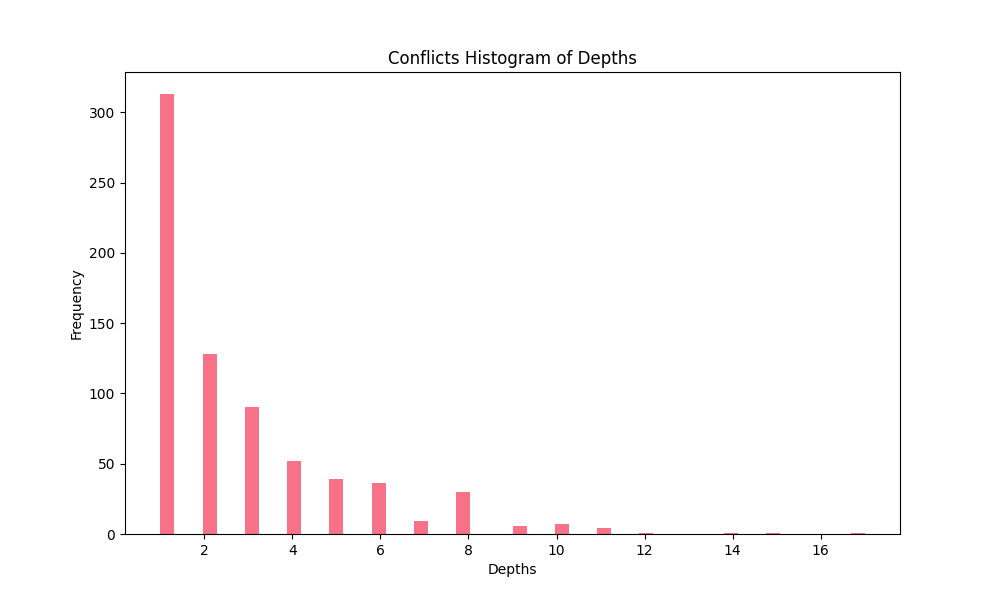
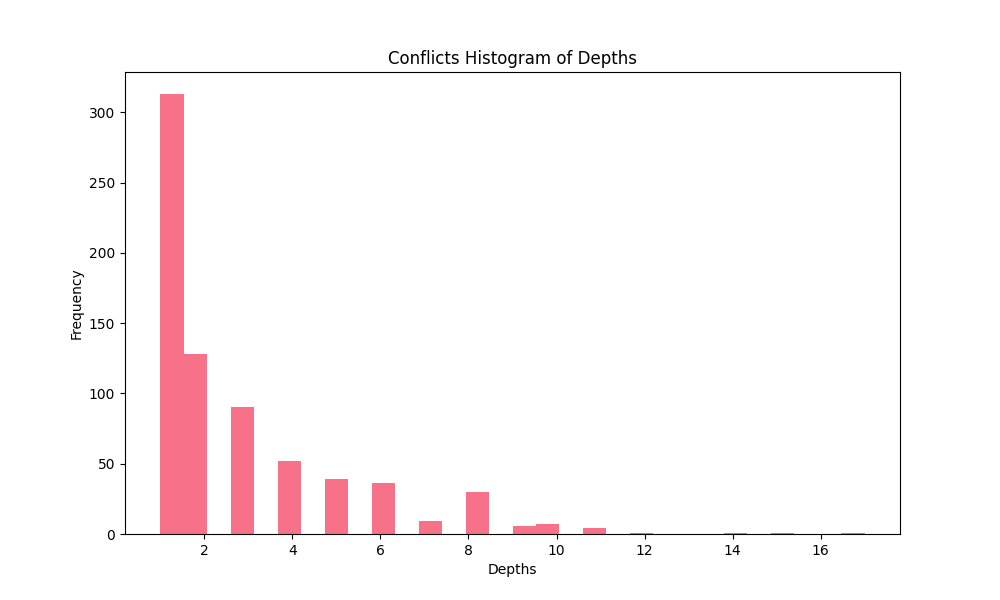
Improving graphs

Changed region(s): [[0.155, 0.15, 0.496, 0.9], [0.527, 0.87, 0.62, 0.9]]

diff --git a/oa-analysis/conflictAnalysis/conflictAnalysis.py b/oa-analysis/conflictAnalysis/conflictAnalysis.py
@@ -50,14 +50,49 @@ class ConflictAnalyzer:
             'percentages': percentages
         }
 
+    def _get_boolean_pie_data(self, df, column, true_label='True', false_label='False'):
+
+        true_count = int(df[column].sum())
+        false_count = int((~df[column]).sum())
+        total = len(df)
+
+        labels = [true_label, false_label]
+        values = [true_count, false_count]
+        percentages = [ (true_count/total)*100 if total>0 else 0,
+                        (false_count/total)*100 if total>0 else 0 ]
+
+        return {
+            'values': values,
+            'labels': labels,
+            'percentages': percentages
+        }
+
     def _create_plots(self, df):
         # Depth and diff distributions
         self.visualizer.plot_histogram(
             data=df[COL_DEPTH],
-            bins=50,
+            bins=30,
             title='Conflicts Histogram of Depths',
             xlabel='Depths',
             filename=PLOT_DEPTH_HIST
+        )
+
+        same_class_df = df[df[COL_SAME_CLASS] == False]
+        self.visualizer.plot_histogram(
+            data=same_class_df[COL_DEPTH],
+            bins=DEFAULT_HIST_BINS,
+            title='Different Class Conflicts Histogram of Depths',
+            xlabel='Depths',
+            filename=PLOT_DIFFERENT_CLASS_DEPTH_HIST
+        )
+
+        same_method_df = df[df[COL_SAME_METHOD] == False]
+        self.visualizer.plot_histogram(
+            data=same_method_df[COL_DEPTH],
+            bins=DEFAULT_HIST_BINS,
+            title='Different Method Conflicts Histogram of Depths',
+            xlabel='Depths',
+            filename=PLOT_DIFFERENT_METHOD_DEPTH_HIST
         )
 
         self.visualizer.plot_pie_chart(
@@ -78,7 +113,7 @@ class ConflictAnalyzer:
         conflicts_per_scenario = df.groupby(COL_SCENARIO_INDEX).size()
         self.visualizer.plot_histogram(
             data=conflicts_per_scenario,
-            bins=DEFAULT_HIST_BINS,
+            bins=100,
             title='Number of Conflicts per Scenario',
             xlabel='Number of Conflicts',
             filename=PLOT_CONFLICTS_PER_SCENARIO
@@ -87,7 +122,7 @@ class ConflictAnalyzer:
         conflicts_per_jar = df.groupby(COL_SCENARIO_JAR).size()
         self.visualizer.plot_histogram(
             data=conflicts_per_jar,
-            bins=DEFAULT_HIST_BINS,
+            bins=100,
             title='Number of Conflicts per ScenarioJAR',
             xlabel='Number of Conflicts',
             filename=PLOT_CONFLICTS_PER_JAR
@@ -98,6 +133,20 @@ class ConflictAnalyzer:
             df=df,
             title='Conflict Depths Behavior',
             filename=PLOT_DEPTH_LINES
+        )
+
+        same_class_data = self._get_boolean_pie_data(df, COL_SAME_CLASS, true_label='Same class', false_label='Different class')
+        self.visualizer.plot_pie_chart(
+            data=same_class_data,
+            title='Proportion of Conflicts in Same Class',
+            filename=PLOT_SAME_CLASS_PIE
+        )
+
+        same_method_data = self._get_boolean_pie_data(df, COL_SAME_METHOD, true_label='Same method', false_label='Different method')
+        self.visualizer.plot_pie_chart(
+            data=same_method_data,
+            title='Proportion of Conflicts in Same Method',
+            filename=PLOT_SAME_METHOD_PIE
         )
     
 

diff --git a/oa-analysis/constants.py b/oa-analysis/constants.py
@@ -27,6 +27,10 @@ PLOT_CONFLICTS_PER_JAR =  ANALYSIS_DIR +'conflicts_per_jar.png'
 PLOT_SCENARIOS_PER_JAR =  ANALYSIS_DIR +'scenarios_per_jar_hist.png'
 PLOT_SAME_METHOD_DIST =  ANALYSIS_DIR +'scenarios_same_method_dist.png'
 PLOT_SAME_CLASS_DIST =  ANALYSIS_DIR +'scenarios_same_class_dist.png'
+PLOT_SAME_CLASS_PIE = ANALYSIS_DIR + 'conflicts_same_class_pie.png'
+PLOT_SAME_METHOD_PIE = ANALYSIS_DIR + 'conflicts_same_method_pie.png'
+PLOT_DIFFERENT_CLASS_DEPTH_HIST = ANALYSIS_DIR + 'conflicts_different_class_depth_hist.png'
+PLOT_DIFFERENT_METHOD_DEPTH_HIST = ANALYSIS_DIR + 'conflicts_different_method_depth_hist.png'
 PLOT_MEDIAN_DEPTH =  ANALYSIS_DIR +'median_depth_per_scenario.png'
 PLOT_MAX_DEPTH = ANALYSIS_DIR + 'max_depth_per_scenario.png'
 PLOT_MIN_DEPTH =  ANALYSIS_DIR +'min_depth_per_scenario.png'
